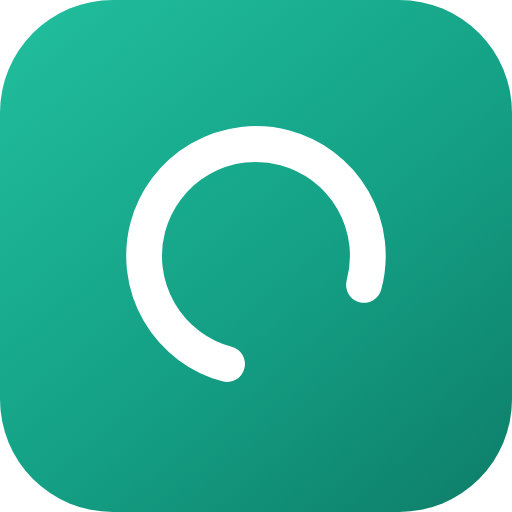
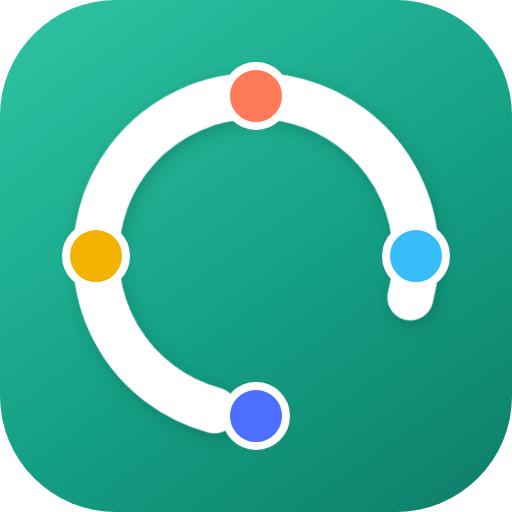
앱 아이콘 새 모양(고리 + 모듈 점 4개) · 카톡 공유 썸네일(og) 추가

diff --git a/app.html b/app.html
@@ -2,6 +2,16 @@
 <html lang="ko" data-theme="민트">
 <head>
 <meta charset="utf-8">
+<meta name="description" content="체육 업무 8가지를 한곳에서 — 수업 도우미 · 수행평가 · PAPS · 건강체력교실 · 줄넘기(점프 Live) · 색깔 매트 놀이터 · FMS 도전 · 스포츠클럽. 무료, 자료는 내 구글 시트에만.">
+<meta property="og:type" content="website">
+<meta property="og:site_name" content="체육교사 보조 프로그램">
+<meta property="og:title" content="체육교사 보조 프로그램 · 체육 활동 기록장">
+<meta property="og:description" content="체육 업무 8가지를 한곳에서 — 수업 도우미 · 수행평가 · PAPS · 건강체력교실 · 줄넘기 · 색깔 매트 · FMS · 스포츠클럽. 무료, 자료는 내 구글 시트에만.">
+<meta property="og:url" content="https://musicalpe.github.io/pe-app/">
+<meta property="og:image" content="https://musicalpe.github.io/pe-app/img/og-app.jpg?v=1">
+<meta property="og:image:width" content="1200">
+<meta property="og:image:height" content="630">
+<meta name="twitter:card" content="summary_large_image">
 <link rel="manifest" href="manifest.webmanifest" id="webManifest">
 <meta name="theme-color" content="#14A085">
 <link rel="icon" href="icons/favicon-64.png">
@@ -10,7 +20,7 @@
 <meta name="mobile-web-app-capable" content="yes">
 <meta name="apple-mobile-web-app-title" content="체육 기록장">
 <script>(function(){try{if(/[?&]page=teacher/.test(location.search))document.getElementById("webManifest").href="manifest-teacher.webmanifest";}catch(e){}})();</script>
-<meta name="pe-web" content="3.4.0 · 2026-11-03 15:01 · server api 1">
+<meta name="pe-web" content="3.4.0 · 2026-11-04 11:02 · server api 1">
 <meta name="viewport" content="width=device-width, initial-scale=1">
 <link rel="stylesheet" href="https://cdn.jsdelivr.net/npm/@tabler/icons-webfont@3.19.0/dist/tabler-icons.min.css">
 <style>
@@ -405,7 +415,7 @@ button.say i{font-size:18px;}
 (function () {
   'use strict';
   var WEB = window.WEB = {
-    version: '3.4.0', build: '202611031501', needs: 1, built: '2026-11-03 15:01', history: [{"version":"3.4.0","date":"2026-11-03","notes":"줄넘기가 점퍼스(줄넘기 기록 관리) 2.8 과 같아졌어요 — 점프 Live (Lite) 선생님 화면(줄넘기 → 점프 Live), 학생 방 \"각자 기기로 대결\", \"한 대로 둘이\"(2인 판정기), 스마트 줄넘기로 뛰기(뛴 시간 함께), 하루 최고·연속 넘기 최고 갱신 축하, 상장 테두리 금박·은박·A4 세로. 방·연속·대결은 라이브러리 53 부터."},{"version":"3.3.7","date":"2026-10-11","notes":"줄넘기 기록 관리 2.4 와 같은 줄넘기 — 우리 반 줄넘기 여행이 국토 대장정(출발 도시 고르기·새 그림)으로, \"내 줄넘기로 뛰기\"(JUMPITNOW 블루투스), Jump Earth!·Jumpers! 이름. 출발 도시·스마트 줄넘기 설정은 라이브러리 53 부터. 구글 시트가 잠깐 오류로 답하면 1.5초 뒤 한 번 더 자동으로 요청해요."},{"version":"3.3.6","date":"2026-10-07","notes":"모아 부르기 — 같은 순간에 나가는 요청들(로그인 직후 모듈별 자료 등)을 한 요청으로 묶어 보내요. 라이브러리 52 부터 동작하고, 옛 라이브러리에서는 지금처럼 따로 보냅니다. 설정 → 최근 요청 속도에 \"묶음 N\" 으로 보여요."},{"version":"3.3.5","date":"2026-10-07","notes":"휴대폰 가로 화면에서 로그인 창이 위아래로 잘려 숫자판 끝까지 못 내리던 것을 고쳤어요(위·아래 모두 스크롤). 가로 화면에서는 숫자판도 조금 낮게. (화면만)"},{"version":"3.3.4","date":"2026-10-06","notes":"앱 아이콘을 민트 바탕 + 고리 모양으로(줄넘기 기록 관리와 같은 모양, 색만 다름). 이미 홈 화면에 추가한 기기는 지우고 다시 추가해야 새 아이콘이 보여요."},{"version":"3.3.3","date":"2026-10-06","notes":"줄넘기 \"학급 공동 목표\" 칸을 뺐어요(학급 현황·학생 화면·설정) — 우리 반 줄넘기 여행과 같은 숫자라 겹쳤어요. 설정값은 시트에 남아 있지만 쓰지 않아요. (화면만)"},{"version":"3.3.2","date":"2026-10-06","notes":"줄넘기 학급 현황: 여행·급수 패널 제목이 보는 범위를 따라가요 — 한 반이면 \"우리 반\", 한 학년 여러 반이면 \"우리 N학년\", 전체면 \"우리 학교\". (화면만)"},{"version":"3.3.1","date":"2026-10-05","notes":"급수 인증표: 학생 \"모두\" 체크를 이름 바로 옆으로 — 체크하면 그 줄 전부, 머리줄 \"모두\"는 반 전체. 항목을 하나씩 바꾸면 \"모두\" 칸이 따라와요. (화면만, 라이브러리 그대로)"},{"version":"3.3.0","date":"2026-10-05","notes":"3.3 — 학교 프로그램 v3.3.0(라이브러리 51)과 번호를 맞췄어요. 설정 → 모듈에 ▲▼(사이드바 모듈 순서, 저장하면 바로 반영 · 라이브러리 51 필요). 줄넘기: 급수 인증·인증서·상장·우리 반 여행 화면(라이브러리 50), 학급 현황 학생별 누적 표에 반 고르기와 오른쪽 열 높이에 맞춘 스크롤, 급수 인증표 머리줄 체크 정렬·\"모두\" 단추 토글, 기록 확인 \"모두 확인\", 줄넘기왕 공동 1위."},{"version":"3.2.14","date":"2026-10-04","notes":"전국 현황판 참여 중에는 \"학생 입력 자동 확인\"을 켤 수 없어요 — 선생님이 확인한 기록만 현황판에. (학교 프로그램 v3.1.8 · 라이브러리 49)"},{"version":"3.2.13","date":"2026-10-04","notes":"\"전국 현황판 참여\" 칸이 줄넘기 모든 화면에 보이던 것 — 줄넘기 설정 화면에만. 학교 프로그램이 아직 옛 판이면 칸을 숨겨요."},{"version":"3.2.12","date":"2026-10-04","notes":"줄넘기 설정에 \"전국 현황판 참여\" 칸, 참여 중이면 학생 줄넘기 화면에 \"전국 현황판 보기\" 링크. (학교 프로그램 v3.1.7 · 라이브러리 47)"},{"version":"3.2.11","date":"2026-10-04","notes":"색깔 매트 놀이터 리듬 스텝 새 모습 — 블록이 비트세이버처럼 앞으로 다가와요(매트 모양 그대로). \"위에서 떨어지기(네 줄)\"도 고를 수 있어요."},{"version":"3.2.10","date":"2026-10-04","notes":"학교가 \"새 배포\"로 주소가 바뀌면 이 기기도 새 주소로 저절로 옮겨 가요. 적용 순서 안내에 \"새 배포는 누르지 마세요\", 주소가 바뀌면 선생님 홈에 \"QR 다시 인쇄\" 알림. (학교 프로그램 v3.1.5 · 라이브러리 45)"},{"version":"3.2.9","date":"2026-10-04","notes":"(만든 선생님 학교 전용) 설정 왼쪽 AI 키 아래에 \"우리 프로그램을 쓰는 학교\" 칸 — 사용 학교 현황을 프로그램 안에서 바로 봐요. (학교 프로그램 v3.1.4 · 라이브러리 44)"},{"version":"3.2.7","date":"2026-10-03","notes":"설정 → 업데이트 아래 \"사용 학교 알림\" — 익명(기본) · 학교 이름도 · 알리지 않기 중에서 고를 수 있어요. 학생 정보는 보내지 않아요. (학교 프로그램 v3.1.3 · 라이브러리 43)"},{"version":"3.2.6","date":"2026-10-03","notes":"AI 키를 설정 한 곳에서(설정 왼쪽 아래 · 시험해 보기) — 줄넘기 응원 문구·매트 퀴즈·세특 AI가 모두 이 키를 쓰고, 앞으로 생길 AI 기능도 여기 키를 써요. (학교 프로그램 v3.1.1 · 라이브러리 41 필요)"},{"version":"3.2.4","date":"2026-10-03","notes":"세특 초안에 \"AI로 다듬기\"(Gemini 키) — 학생마다 기록 사실로 서로 다른 문장, 한 명씩 또는 고른 학생·반 전체를 차례로. 학생을 골라 글 지우기. (학교 프로그램 v3.1.1 · 라이브러리 41 필요)"},{"version":"3.2.3","date":"2026-10-03","notes":"선생님이 로그인하면 새 소식 창 — 새 화면이 바뀌면 \"이번에 바뀐 것\"을 한 번 보여 주고, 학교 프로그램(라이브러리) 새 버전이 나와 있으면 적용 방법도 함께 알려 줘요."},{"version":"3.2.2","date":"2026-10-01","notes":"홈 화면에 앱으로 추가 — 태블릿·휴대폰에서 아이콘 하나로 주소창 없이 앱처럼 열려요(로그인 화면 아래 \"홈 화면에 앱으로 추가\", 아이폰은 공유 → 홈 화면에 추가). 앱 파일을 기기에 기억해 두어 여는 것도 빨라져요.\n세특 초안(홈)과 새 학년도 시작(설정) 메뉴 — 학교 프로그램을 v3.1.0(라이브러리 40)으로 올리면 써요."},{"version":"3.2.1","date":"2026-10-01","notes":"색깔 매트 놀이터 화면을 밝은 카드 톤으로(판정기와 같은 톤) — 게임 설정·끝 화면이 밝아지고 시작 버튼은 코랄색. 게임 중 화면은 매트 색이 잘 보이도록 검은 바탕 그대로."},{"version":"3.2.0","date":"2026-10-01","notes":"휴대폰·태블릿 위 메뉴를 누르면 아래 하위 메뉴만 바뀌던 것 — 그 메뉴의 첫 화면도 바로 열려요."},{"version":"3.1.9","date":"2026-10-01","notes":"카메라 판정기 새 디자인(v0.7.3) — 밝은 카드 화면, 10회마다 축하, 전체 화면 버튼. 앱으로 돌아가기 줄도 밝게."},{"version":"3.1.8","date":"2026-10-01","notes":"초기화 화면에 한꺼번에 고르기 — \"모든 기록 선택(명단은 남김)\" · \"명단까지 전부 선택\" · \"선택 해제\", 모듈마다 \"이 모듈 모두\", 고른 개수 표시."},{"version":"3.1.7","date":"2026-10-01","notes":"로그인 직후 모듈 여러 개가 한꺼번에 자료를 부르며 모두 느려지던 것 — 3개씩 차례로 보내고, 선생님·학생이 누른 화면의 자료는 줄 맨 앞으로 먼저 불러와요."},{"version":"3.1.5","date":"2026-09-30","notes":"새 판이 나온 뒤 처음 열 때 화면을 두 번 불러오던 것을 한 번으로 — 새 판 확인을 먼저 하고 바로 새 판을 받아요.\n설정 → 업데이트 칸 아래에 \"최근 요청 속도\" (느릴 때 어디가 느린지 볼 수 있어요)."},{"version":"3.1.4","date":"2026-09-30","notes":"색깔 매트 놀이터: 게임 중에 휴대폰·태블릿 \"뒤로\"를 누르면 게임이 닫히고 음악도 멈춰요(예전엔 유튜브 음악이 계속 나오던 것 수정).\n핸드폰(세로)에서 카메라 판정기 글자가 겹치고 시작 버튼이 가려지던 것 수정 — 판정기 v0.7.2."},{"version":"3.1.2","date":"2026-09-30","notes":"줄넘기·건강체력교실 \"카메라로 뛰기\"가 새 탭 대신 앱 안 전체 화면으로 열려요. 위쪽 \"앱으로 돌아가기\"(또는 뒤로가기)로 닫으면 방금 기록이 바로 보여요.\n학생이 로그인하자마자 모듈을 누르면 빈 화면이 남던 것 수정.\n색깔 매트 놀이터 게임 화면에 Made by 도장.\n학생용 QR 이 화면 방식을 따라가요(\"새 화면\"이면 찍자마자 새 화면). QR 인쇄가 빈 종이로 나오던 것 수정.\n버전 번호를 하나로 — 설정·업데이트 칸의 번호가 곧 지금 쓰는 판이에요. 새 판이 나오면 앱을 열 때 저절로 새 판을 받아요(새로고침 요령이 필요 없음)."},{"version":"3.0.1","date":"2026-09-30","notes":"설정 → 접속 주소에 학생용 주소 QR(인쇄 가능).\n학교 프로그램(Shell.gs)에 doPost 가 없어도 사진·큰 저장이 조각으로 올라감."},{"version":"3.0.0","date":"2026-09-30","notes":"새 화면 첫 판 — 화면은 GitHub 한 곳에서, 저장은 지금처럼 학교 시트에.\n학교 주소를 기기에 기억 · 로그인 화면 아래 \"다른 학교로 바꾸기\".\n구글 웹앱 위쪽 안내 띠 없음."}],
+    version: '3.4.0', build: '202611041102', needs: 1, built: '2026-11-04 11:02', history: [{"version":"3.4.0","date":"2026-11-03","notes":"줄넘기가 점퍼스(줄넘기 기록 관리) 2.8 과 같아졌어요 — 점프 Live (Lite) 선생님 화면(줄넘기 → 점프 Live), 학생 방 \"각자 기기로 대결\", \"한 대로 둘이\"(2인 판정기), 스마트 줄넘기로 뛰기(뛴 시간 함께), 하루 최고·연속 넘기 최고 갱신 축하, 상장 테두리 금박·은박·A4 세로. 방·연속·대결은 라이브러리 53 부터."},{"version":"3.3.7","date":"2026-10-11","notes":"줄넘기 기록 관리 2.4 와 같은 줄넘기 — 우리 반 줄넘기 여행이 국토 대장정(출발 도시 고르기·새 그림)으로, \"내 줄넘기로 뛰기\"(JUMPITNOW 블루투스), Jump Earth!·Jumpers! 이름. 출발 도시·스마트 줄넘기 설정은 라이브러리 53 부터. 구글 시트가 잠깐 오류로 답하면 1.5초 뒤 한 번 더 자동으로 요청해요."},{"version":"3.3.6","date":"2026-10-07","notes":"모아 부르기 — 같은 순간에 나가는 요청들(로그인 직후 모듈별 자료 등)을 한 요청으로 묶어 보내요. 라이브러리 52 부터 동작하고, 옛 라이브러리에서는 지금처럼 따로 보냅니다. 설정 → 최근 요청 속도에 \"묶음 N\" 으로 보여요."},{"version":"3.3.5","date":"2026-10-07","notes":"휴대폰 가로 화면에서 로그인 창이 위아래로 잘려 숫자판 끝까지 못 내리던 것을 고쳤어요(위·아래 모두 스크롤). 가로 화면에서는 숫자판도 조금 낮게. (화면만)"},{"version":"3.3.4","date":"2026-10-06","notes":"앱 아이콘을 민트 바탕 + 고리 모양으로(줄넘기 기록 관리와 같은 모양, 색만 다름). 이미 홈 화면에 추가한 기기는 지우고 다시 추가해야 새 아이콘이 보여요."},{"version":"3.3.3","date":"2026-10-06","notes":"줄넘기 \"학급 공동 목표\" 칸을 뺐어요(학급 현황·학생 화면·설정) — 우리 반 줄넘기 여행과 같은 숫자라 겹쳤어요. 설정값은 시트에 남아 있지만 쓰지 않아요. (화면만)"},{"version":"3.3.2","date":"2026-10-06","notes":"줄넘기 학급 현황: 여행·급수 패널 제목이 보는 범위를 따라가요 — 한 반이면 \"우리 반\", 한 학년 여러 반이면 \"우리 N학년\", 전체면 \"우리 학교\". (화면만)"},{"version":"3.3.1","date":"2026-10-05","notes":"급수 인증표: 학생 \"모두\" 체크를 이름 바로 옆으로 — 체크하면 그 줄 전부, 머리줄 \"모두\"는 반 전체. 항목을 하나씩 바꾸면 \"모두\" 칸이 따라와요. (화면만, 라이브러리 그대로)"},{"version":"3.3.0","date":"2026-10-05","notes":"3.3 — 학교 프로그램 v3.3.0(라이브러리 51)과 번호를 맞췄어요. 설정 → 모듈에 ▲▼(사이드바 모듈 순서, 저장하면 바로 반영 · 라이브러리 51 필요). 줄넘기: 급수 인증·인증서·상장·우리 반 여행 화면(라이브러리 50), 학급 현황 학생별 누적 표에 반 고르기와 오른쪽 열 높이에 맞춘 스크롤, 급수 인증표 머리줄 체크 정렬·\"모두\" 단추 토글, 기록 확인 \"모두 확인\", 줄넘기왕 공동 1위."},{"version":"3.2.14","date":"2026-10-04","notes":"전국 현황판 참여 중에는 \"학생 입력 자동 확인\"을 켤 수 없어요 — 선생님이 확인한 기록만 현황판에. (학교 프로그램 v3.1.8 · 라이브러리 49)"},{"version":"3.2.13","date":"2026-10-04","notes":"\"전국 현황판 참여\" 칸이 줄넘기 모든 화면에 보이던 것 — 줄넘기 설정 화면에만. 학교 프로그램이 아직 옛 판이면 칸을 숨겨요."},{"version":"3.2.12","date":"2026-10-04","notes":"줄넘기 설정에 \"전국 현황판 참여\" 칸, 참여 중이면 학생 줄넘기 화면에 \"전국 현황판 보기\" 링크. (학교 프로그램 v3.1.7 · 라이브러리 47)"},{"version":"3.2.11","date":"2026-10-04","notes":"색깔 매트 놀이터 리듬 스텝 새 모습 — 블록이 비트세이버처럼 앞으로 다가와요(매트 모양 그대로). \"위에서 떨어지기(네 줄)\"도 고를 수 있어요."},{"version":"3.2.10","date":"2026-10-04","notes":"학교가 \"새 배포\"로 주소가 바뀌면 이 기기도 새 주소로 저절로 옮겨 가요. 적용 순서 안내에 \"새 배포는 누르지 마세요\", 주소가 바뀌면 선생님 홈에 \"QR 다시 인쇄\" 알림. (학교 프로그램 v3.1.5 · 라이브러리 45)"},{"version":"3.2.9","date":"2026-10-04","notes":"(만든 선생님 학교 전용) 설정 왼쪽 AI 키 아래에 \"우리 프로그램을 쓰는 학교\" 칸 — 사용 학교 현황을 프로그램 안에서 바로 봐요. (학교 프로그램 v3.1.4 · 라이브러리 44)"},{"version":"3.2.7","date":"2026-10-03","notes":"설정 → 업데이트 아래 \"사용 학교 알림\" — 익명(기본) · 학교 이름도 · 알리지 않기 중에서 고를 수 있어요. 학생 정보는 보내지 않아요. (학교 프로그램 v3.1.3 · 라이브러리 43)"},{"version":"3.2.6","date":"2026-10-03","notes":"AI 키를 설정 한 곳에서(설정 왼쪽 아래 · 시험해 보기) — 줄넘기 응원 문구·매트 퀴즈·세특 AI가 모두 이 키를 쓰고, 앞으로 생길 AI 기능도 여기 키를 써요. (학교 프로그램 v3.1.1 · 라이브러리 41 필요)"},{"version":"3.2.4","date":"2026-10-03","notes":"세특 초안에 \"AI로 다듬기\"(Gemini 키) — 학생마다 기록 사실로 서로 다른 문장, 한 명씩 또는 고른 학생·반 전체를 차례로. 학생을 골라 글 지우기. (학교 프로그램 v3.1.1 · 라이브러리 41 필요)"},{"version":"3.2.3","date":"2026-10-03","notes":"선생님이 로그인하면 새 소식 창 — 새 화면이 바뀌면 \"이번에 바뀐 것\"을 한 번 보여 주고, 학교 프로그램(라이브러리) 새 버전이 나와 있으면 적용 방법도 함께 알려 줘요."},{"version":"3.2.2","date":"2026-10-01","notes":"홈 화면에 앱으로 추가 — 태블릿·휴대폰에서 아이콘 하나로 주소창 없이 앱처럼 열려요(로그인 화면 아래 \"홈 화면에 앱으로 추가\", 아이폰은 공유 → 홈 화면에 추가). 앱 파일을 기기에 기억해 두어 여는 것도 빨라져요.\n세특 초안(홈)과 새 학년도 시작(설정) 메뉴 — 학교 프로그램을 v3.1.0(라이브러리 40)으로 올리면 써요."},{"version":"3.2.1","date":"2026-10-01","notes":"색깔 매트 놀이터 화면을 밝은 카드 톤으로(판정기와 같은 톤) — 게임 설정·끝 화면이 밝아지고 시작 버튼은 코랄색. 게임 중 화면은 매트 색이 잘 보이도록 검은 바탕 그대로."},{"version":"3.2.0","date":"2026-10-01","notes":"휴대폰·태블릿 위 메뉴를 누르면 아래 하위 메뉴만 바뀌던 것 — 그 메뉴의 첫 화면도 바로 열려요."},{"version":"3.1.9","date":"2026-10-01","notes":"카메라 판정기 새 디자인(v0.7.3) — 밝은 카드 화면, 10회마다 축하, 전체 화면 버튼. 앱으로 돌아가기 줄도 밝게."},{"version":"3.1.8","date":"2026-10-01","notes":"초기화 화면에 한꺼번에 고르기 — \"모든 기록 선택(명단은 남김)\" · \"명단까지 전부 선택\" · \"선택 해제\", 모듈마다 \"이 모듈 모두\", 고른 개수 표시."},{"version":"3.1.7","date":"2026-10-01","notes":"로그인 직후 모듈 여러 개가 한꺼번에 자료를 부르며 모두 느려지던 것 — 3개씩 차례로 보내고, 선생님·학생이 누른 화면의 자료는 줄 맨 앞으로 먼저 불러와요."},{"version":"3.1.5","date":"2026-09-30","notes":"새 판이 나온 뒤 처음 열 때 화면을 두 번 불러오던 것을 한 번으로 — 새 판 확인을 먼저 하고 바로 새 판을 받아요.\n설정 → 업데이트 칸 아래에 \"최근 요청 속도\" (느릴 때 어디가 느린지 볼 수 있어요)."},{"version":"3.1.4","date":"2026-09-30","notes":"색깔 매트 놀이터: 게임 중에 휴대폰·태블릿 \"뒤로\"를 누르면 게임이 닫히고 음악도 멈춰요(예전엔 유튜브 음악이 계속 나오던 것 수정).\n핸드폰(세로)에서 카메라 판정기 글자가 겹치고 시작 버튼이 가려지던 것 수정 — 판정기 v0.7.2."},{"version":"3.1.2","date":"2026-09-30","notes":"줄넘기·건강체력교실 \"카메라로 뛰기\"가 새 탭 대신 앱 안 전체 화면으로 열려요. 위쪽 \"앱으로 돌아가기\"(또는 뒤로가기)로 닫으면 방금 기록이 바로 보여요.\n학생이 로그인하자마자 모듈을 누르면 빈 화면이 남던 것 수정.\n색깔 매트 놀이터 게임 화면에 Made by 도장.\n학생용 QR 이 화면 방식을 따라가요(\"새 화면\"이면 찍자마자 새 화면). QR 인쇄가 빈 종이로 나오던 것 수정.\n버전 번호를 하나로 — 설정·업데이트 칸의 번호가 곧 지금 쓰는 판이에요. 새 판이 나오면 앱을 열 때 저절로 새 판을 받아요(새로고침 요령이 필요 없음)."},{"version":"3.0.1","date":"2026-09-30","notes":"설정 → 접속 주소에 학생용 주소 QR(인쇄 가능).\n학교 프로그램(Shell.gs)에 doPost 가 없어도 사진·큰 저장이 조각으로 올라감."},{"version":"3.0.0","date":"2026-09-30","notes":"새 화면 첫 판 — 화면은 GitHub 한 곳에서, 저장은 지금처럼 학교 시트에.\n학교 주소를 기기에 기억 · 로그인 화면 아래 \"다른 학교로 바꾸기\".\n구글 웹앱 위쪽 안내 띠 없음."}],
     app: '', info: null, post: null, page: '', ready: null
   };
   var KEY = 'peapp.school', LIST = 'peapp.schools', THEME = 'peapp.theme.';

diff --git a/index.html b/index.html
@@ -1,5 +1,15 @@
 <!DOCTYPE html>
 <html lang="ko"><head><meta charset="utf-8"><meta name="viewport" content="width=device-width, initial-scale=1"><title>체육교사 보조 프로그램</title>
+<meta name="description" content="체육 업무 8가지를 한곳에서 — 수업 도우미 · 수행평가 · PAPS · 건강체력교실 · 줄넘기(점프 Live) · 색깔 매트 놀이터 · FMS 도전 · 스포츠클럽. 무료, 자료는 내 구글 시트에만.">
+<meta property="og:type" content="website">
+<meta property="og:site_name" content="체육교사 보조 프로그램">
+<meta property="og:title" content="체육교사 보조 프로그램 · 체육 활동 기록장">
+<meta property="og:description" content="체육 업무 8가지를 한곳에서 — 수업 도우미 · 수행평가 · PAPS · 건강체력교실 · 줄넘기 · 색깔 매트 · FMS · 스포츠클럽. 무료, 자료는 내 구글 시트에만.">
+<meta property="og:url" content="https://musicalpe.github.io/pe-app/">
+<meta property="og:image" content="https://musicalpe.github.io/pe-app/img/og-app.jpg?v=1">
+<meta property="og:image:width" content="1200">
+<meta property="og:image:height" content="630">
+<meta name="twitter:card" content="summary_large_image">
 <link rel="manifest" href="manifest.webmanifest" id="webManifest">
 <meta name="theme-color" content="#14A085">
 <link rel="icon" href="icons/favicon-64.png">
@@ -13,7 +23,7 @@
 <script>
 (function () {
   var q = location.search.replace(/^\?/, ''), done = false;
-  function go(v, b) { if (done) return; done = true; location.replace('app.html?v=' + encodeURIComponent(v || '3.4.0') + '&b=' + encodeURIComponent(b || '202611031501') + (q ? '&' + q : '')); }
+  function go(v, b) { if (done) return; done = true; location.replace('app.html?v=' + encodeURIComponent(v || '3.4.0') + '&b=' + encodeURIComponent(b || '202611041102') + (q ? '&' + q : '')); }
   setTimeout(function () { go(''); }, 4000);   // 판 확인이 늦으면 그냥 열기
   fetch('ready.json?t=' + Date.now(), { cache: 'no-store' }).then(function (r) { return r.json(); }).then(function (j) { go(j.version, j.build); }, function () { go(''); });
 })();
